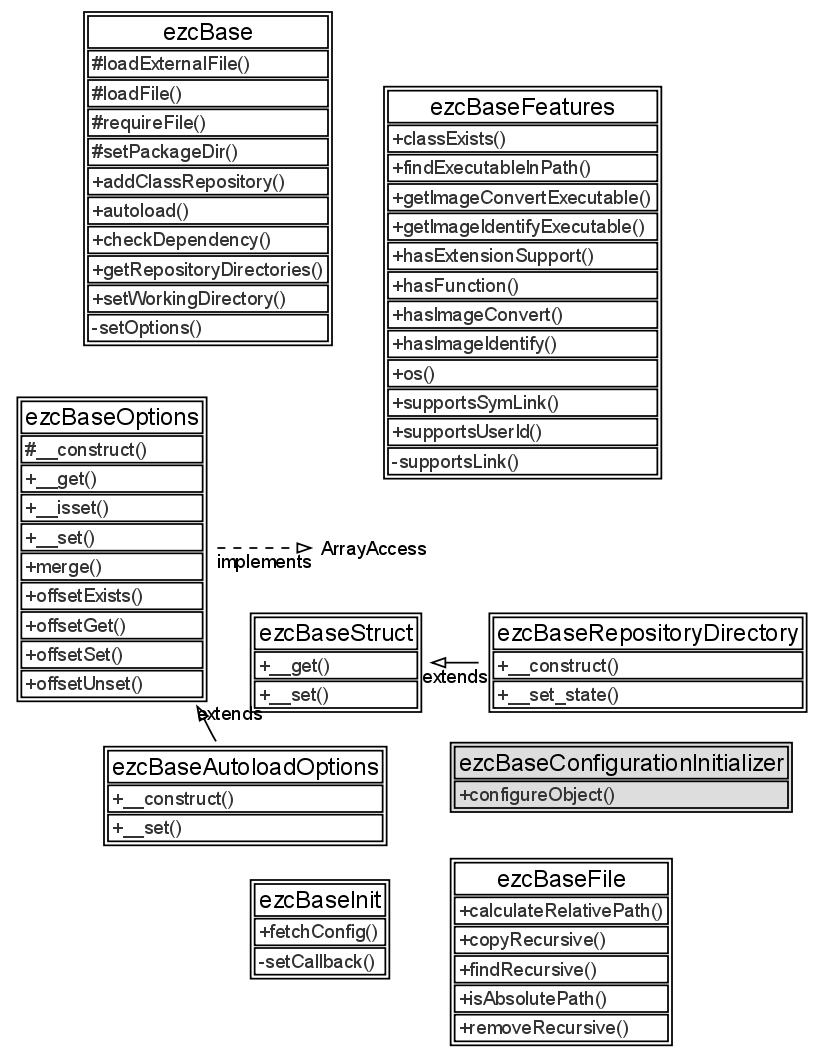
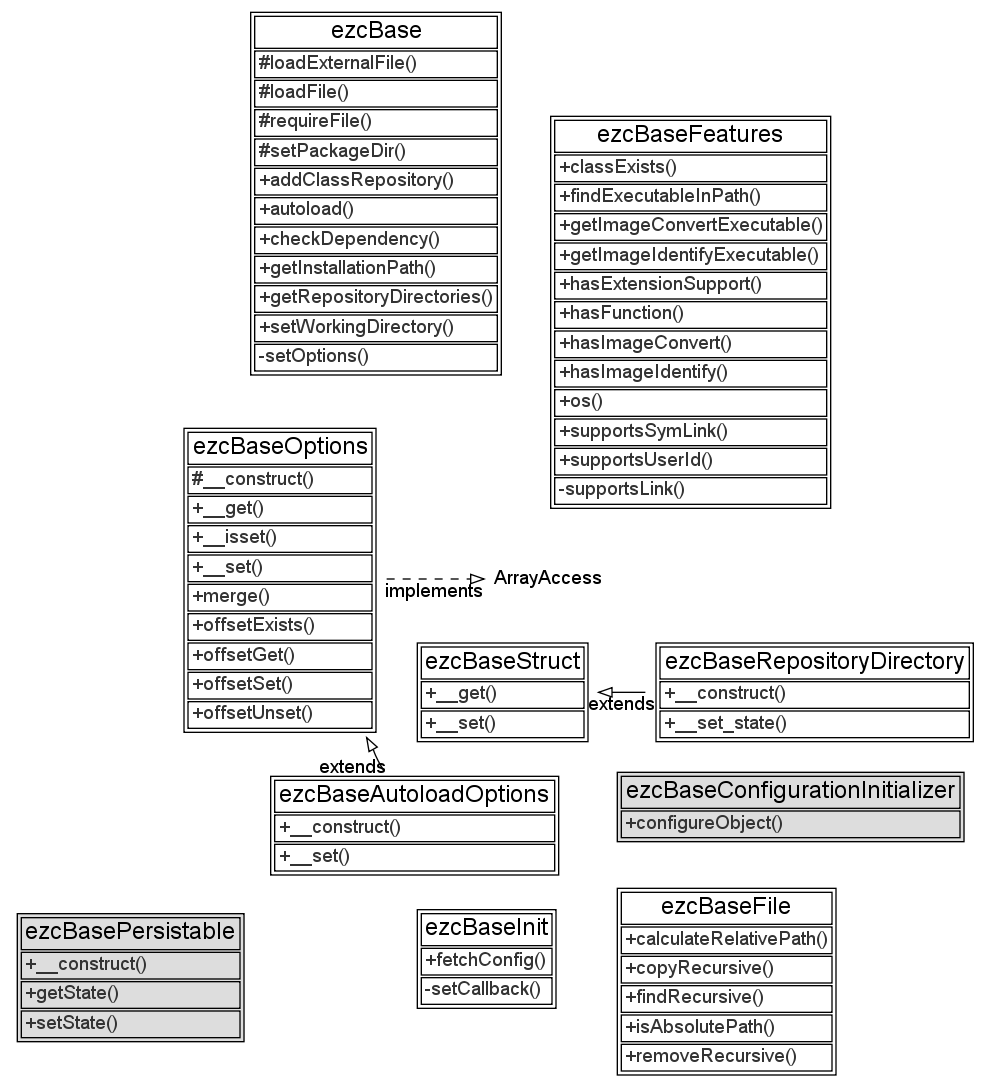
- Added the ezcBasePersistable interface that can be used to ensure that the   object implementing this interface can be used with PersistentObject and   Search.
git-svn-id: https://svn.apache.org/repos/asf/incubator/zetacomponents/trunk@975390 13f79535-47bb-0310-9956-ffa450edef68

diff --git a/Base/src/interfaces/persistable.php b/Base/src/interfaces/persistable.php
@@ -1,0 +1,40 @@
+<?php
+/**
+ * File containing the ezcBasePersistable interface
+ *
+ * @package Base
+ * @version //autogen//
+ * @copyright Copyright (C) 2005-2008 eZ systems as. All rights reserved.
+ * @license http://ez.no/licenses/new_bsd New BSD License
+ */
+/**
+ * This class provides the interface that classes need to implement to be able
+ * to be used by the PersistentObject and Search components.
+ *
+ * @package Base
+ * @version //autogen//
+ */
+interface ezcBasePersistable
+{
+    /**
+     * The constructor for the object needs to be able to accept no arguments.
+     * 
+     * The data is later set through the setState() method.
+     */
+    public function __construct();
+
+    /**
+     * Returns all the object's properties so that they can be stored or indexed.
+     *
+     * @return array(string=>mixed)
+     */
+    public function getState();
+
+    /**
+     * Accepts an array containing data for one or more of the class' properties.
+     *
+     * @param array $properties
+     */
+    public function setState( array $properties );
+}
+?>

diff --git a/Search/src/extractors/helpers/simple.php b/Search/src/extractors/helpers/simple.php
@@ -1,5 +1,5 @@
 <?php
-class ezcSearchSimpleArticle implements ezcSearchDefinitionProvider
+class ezcSearchSimpleArticle implements ezcSearchDefinitionProvider, ezcBasePersistable
 {
     public $id;
     public $title;
@@ -44,7 +44,7 @@ class ezcSearchSimpleArticle implements ezcSearchDefinitionProvider
         );
     }
 
-    function setState( $state )
+    function setState( array $state )
     {
         foreach ( $state as $key => $value )
         {

diff --git a/Base/src/base_autoload.php b/Base/src/base_autoload.php
@@ -35,6 +35,7 @@ return array(
     'ezcBaseFeatures'                             => 'Base/features.php',
     'ezcBaseFile'                                 => 'Base/file.php',
     'ezcBaseInit'                                 => 'Base/init.php',
+    'ezcBasePersistable'                          => 'Base/interfaces/persistable.php',
     'ezcBaseRepositoryDirectory'                  => 'Base/structs/repository_directory.php',
 );
 ?>
